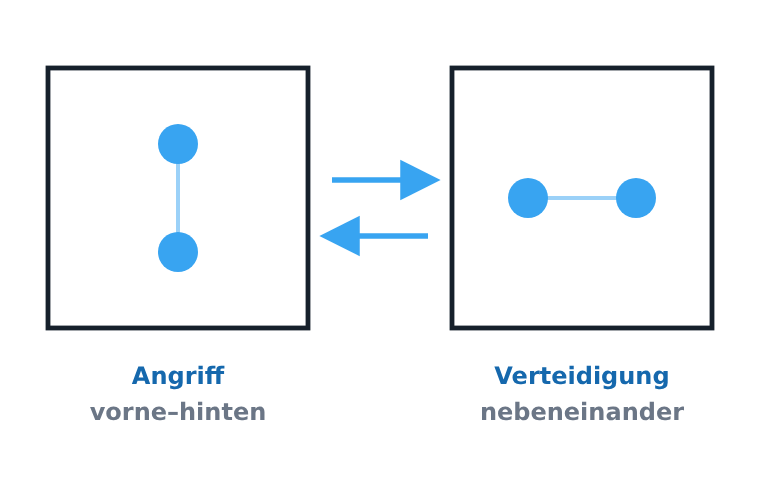
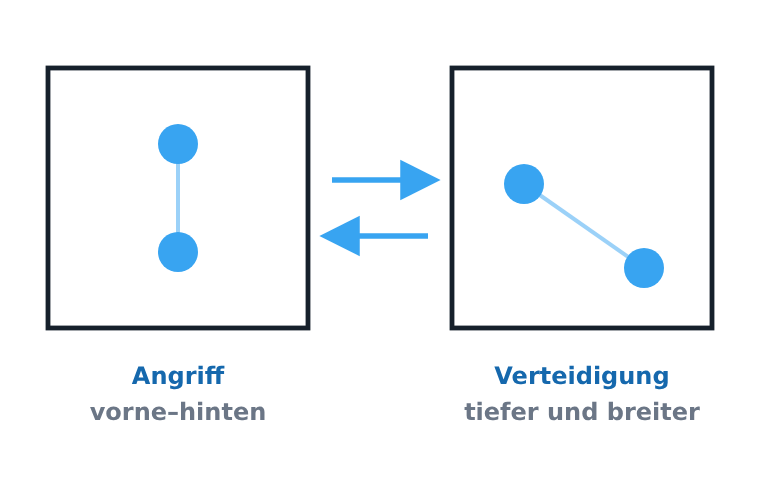
Doppel: Badminton-Rotation aus Experten-Bausteinen und drei Grafiken entfernt
Drei Experten-Bausteine lehrten Badminton-Doppel: Verteidigung „Seite
an Seite“, Rotation zwischen zwei Formationen, „am Netz“ lauern, der
Aufschlaeger rueckt nach vorn, der Rueckraumspieler schliesst ab. Das
widerspricht Regel 7.4 (wer aufschlaegt, ist Rueckraumspieler), der
Positionsregel 7.5.1 (im Treffmoment Angriffsspieler vorn, Rueckraum
hinten), angriff_im_paar (Abschluss vorn) und den beiden BAD-Deltas,
die genau diese Rotation als Gewohnheit beschreiben, die man im
Crossminton ablegt — also den eigenen Voraussetzungen.

- gegnerisches_paar_lesen: „tiefer und breiter“ statt Seite an Seite
- partner_in_position_bringen: Aufschlaeger bleibt hinten, Abschluss
  vorn, kein Netz
- nahtlos_umschalten: Umschalten innerhalb der festen Ordnung
  vorn/hinten; Tandem statt Drehtuer als Bild
- je de/en/fr/pl; Belegfelder nachgezogen

Die Grafiken G-039 (Verteidigung im Paar), G-041 (Umschalten im
Doppel) und G-052 (nahtlos umschalten) zeigten dieselbe Seite-an-
Seite-Aufstellung — G-041 widersprach damit dem Text seines eigenen
Bausteins. Neu gezeichnet in allen vier Sprachen (Geometrie je
identisch), PNG-Fallbacks neu gerendert, Katalog nachgezogen.

scratchpad/render-svg.mjs nimmt die Groesse jetzt aus der viewBox;
ohne width/height lief das SVG auf die volle Fensterbreite und das
PNG kam in 2560 statt 600 Pixeln heraus.

Claude-Session: https://claude.ai/code/session_013KNt9ps5BEZjHZh3HU8knw

Changed region(s): [[0.6658, 0.33, 0.8776, 0.48], [0.6053, 0.78, 0.9382, 0.84], [0.7868, 0.48, 0.8776, 0.57]]

diff --git a/images/grafik-prompts.md b/images/grafik-prompts.md
@@ -193,7 +193,7 @@ Top-down diagram of one square showing the doubles attacking formation: one play
 
 **G-039** · `images/G-039.png` · `verteidigung_im_paar` · Fortgeschritten  
 *Leitgrafik: Verteidigung im Paar*  
-Top-down diagram of one square showing the doubles defensive formation: the two players positioned side by side, each covering one half of the square, sharing the width. Distinct markers; a dashed line dividing the two covered halves.
+Top-down diagram of one square (front line at the top) showing the Crossminton doubles defence: both players have dropped deeper and spread wider, but the front/back order holds (position rule 7.5.1) — one in the shaded front zone, one in the back zone, a dashed line between the two covered areas. No side-by-side formation (that is the badminton habit the BAD deltas tell players to drop).
 
 **G-040** · `images/G-040.png` · `aufschlag_rueckschlag_doppel` · Fortgeschritten  
 *Leitgrafik: Aufschlag und Rückschlag im Doppel*  
@@ -201,7 +201,7 @@ Top-down diagram of both squares illustrating the doubles serve rotation: four p
 
 **G-041** · `images/G-041.png` · `das_umschalten_im_doppel` · Fortgeschritten  
 *Leitgrafik: Das Umschalten im Doppel*  
-Top-down diagram showing the transition between formations in doubles: on one side the front-back attacking stagger, transforming via curved rotation arrows into the side-by-side defensive formation, illustrating the switch between attack and defense. Two small formation states linked by rotation arrows.
+Top-down diagram showing the switch between attack and defence in Crossminton doubles: on the left the front-back attacking stagger, on the right the defence with both players deeper and wider in a diagonal stagger — the front/back order is kept (position rule 7.5.1), there is no side-by-side rotation. Two small states linked by switching arrows.
 
 **G-042** · `images/G-042.png` · `bewegung_als_einheit` · Fortgeschritten  
 *Leitgrafik: Bewegung als Einheit*  
@@ -245,7 +245,7 @@ Top-down diagram of one square where one partner's shot (arrow) sets up the othe
 
 **G-052** · `images/G-052.png` · `nahtlos_umschalten` · Experte  
 *Leitgrafik: Nahtlos umschalten*  
-Top-down diagram showing a smooth, seamless transition of a doubles pair between attacking front-back and defensive side-by-side formations, fluid rotation arrows with no gap. Illustrates seamless switching.
+Top-down diagram of one square ("front" marked above the top edge): the attacking positions (solid — front player close up, rear player pushing) and the defending positions (hollow — both deeper and wider), each linked by a double-headed arrow. Both move at once and the front/back order stays. Illustrates seamless switching within the fixed Crossminton roles.
 
 **G-053** · `images/G-053.png` · `blindes_verstaendnis` · Experte  
 *Leitgrafik: Blindes Verständnis*  
